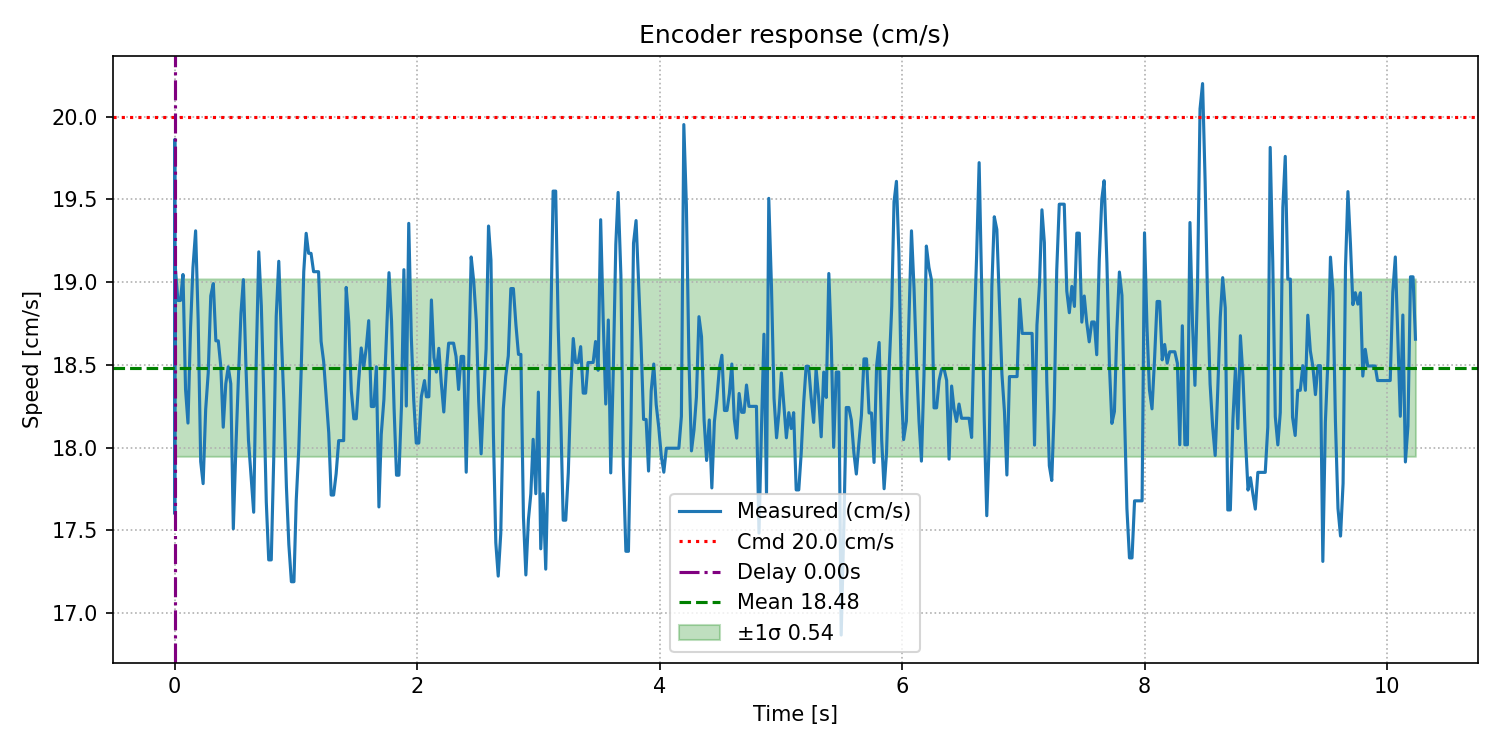
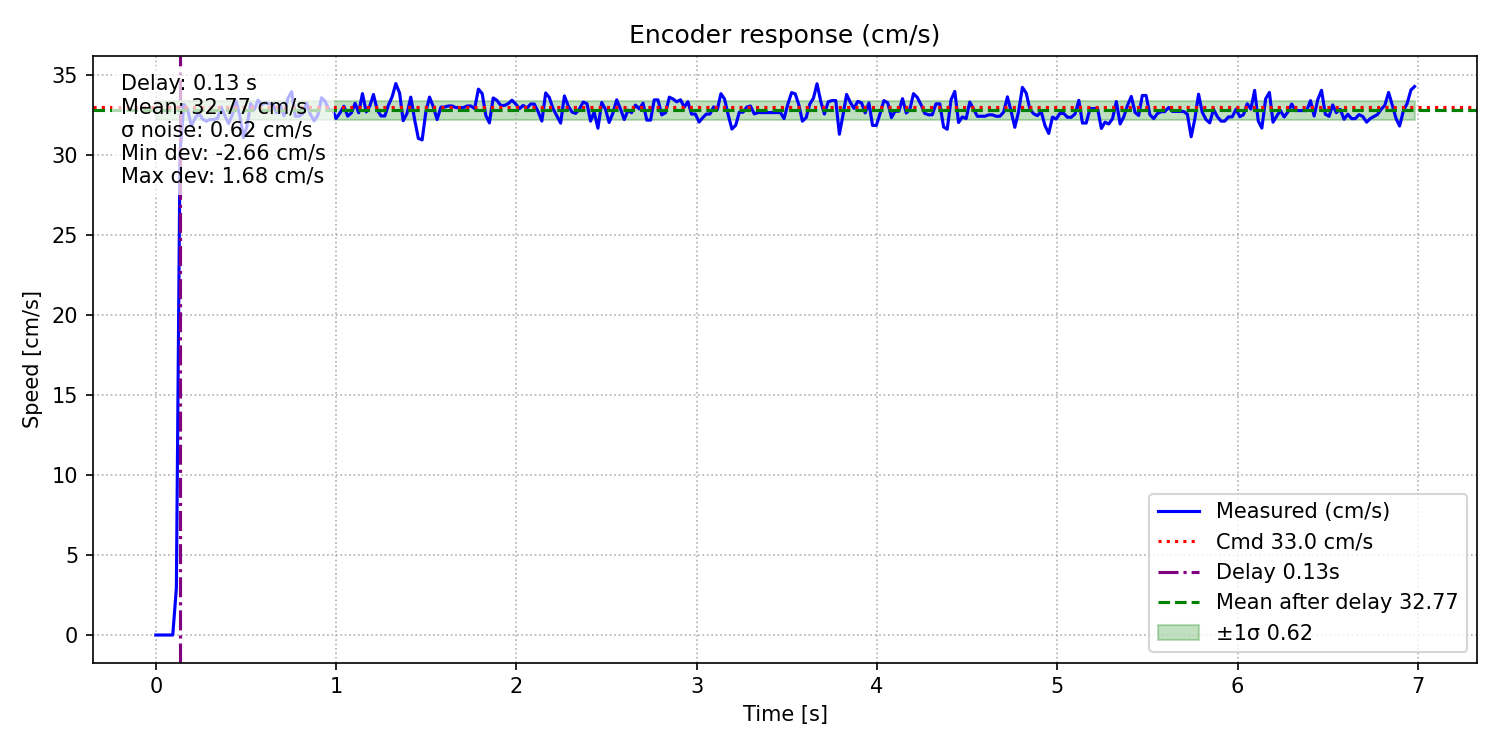
encoder totaldisplacement

diff --git a/Embedded_Platform/Embedded_2024/source/periodics/encoder.cpp b/Embedded_Platform/Embedded_2024/source/periodics/encoder.cpp
@@ -179,13 +179,8 @@ float CEncoder::readAngularSpeed() {
     sumDelta = 0.0f;
     lastT    = now;
     lastPublishedSpeed = speed;
-    // printf("[Encoder] angle = %.2f°, speed = %.2f°/s\n", ang, speed);
 
     char buf[64];
-    // int len = snprintf(buf, sizeof(buf),
-    //                 "[Encoder] angle = %.2f°, speed = %.2f°/s\n",
-    //                 ang, speed);
-    // m_serial.write(buf, len);
     int n = std::snprintf(buf, sizeof(buf),
                     "@5:%.1f;%.3f;;\r\n",
                     ang, speed / DEGREE_PER_CM);
@@ -193,9 +188,13 @@ float CEncoder::readAngularSpeed() {
         m_serial.write(buf, n);
     }
 
+    int len = snprintf(buf, sizeof(buf),
+                    "[Encoder] Total displacement = %.2f°\n",
+                    displacementDeg);
+    m_serial.write(buf, len);
+
     return speed;
 }
-
 
 float CEncoder::readAngularAcceleration() {
     float dt = m_dt;
@@ -212,25 +211,24 @@ float CEncoder::readAngularAcceleration() {
     return filtAcc;
 }
 
-float CEncoder::getTotalDisplacementDegrees() {
-    float current = readAngleDegrees();
-    static float prev = current;
-    static float total = 0.0f;
+float CEncoder::getTotalDisplacementDegrees()
+{
+    const float ang_raw = m_pwm.dutycycle() * 360.0f;
+    static int   revs = 0;
+    static float prev = ang_raw;
 
-    // Compute raw difference
-    float delta = current - prev;
+    float delta = ang_raw - prev;
 
-    // Correct for wrap-around
-    if (delta < -180.0f) {
-        delta += 360.0f;
-    } else if (delta > 180.0f) {
-        delta -= 360.0f;
-    }
+    if (delta >  180.0f) revs--;      // wrapped 360→0 forward
+    else if (delta < -180.0f) revs++; // wrapped 0→360 backward
 
-    total += delta;
-    prev = current;
-
-    printf("[Encoder] Total displacement = %.2f°\n", total);
+    prev = ang_raw;
+    float total = revs * 360.0f + ang_raw;
+    // char buf[64];
+    // int len = snprintf(buf, sizeof(buf),
+    //                 "[Encoder] Total displacement = %.2f°\n",
+    //                 total);
+    // m_serial.write(buf, len);
     return total;
 }
 
@@ -255,7 +253,7 @@ void CEncoder::_run() {
 
     // float angleDeg = readAngleDegrees();
     // float speedDeg = readAngularSpeed();
-    float displacementDeg = getTotalDisplacementDegrees(); 
+    displacementDeg = getTotalDisplacementDegrees(); 
 
     // // ————— 5) Mark end of execution and accumulate for average print
     // uint32_t end_us     = execTimer.read_us();

diff --git a/Embedded_Platform/Embedded_2024/scripts/encoder_noise_test.py b/Embedded_Platform/Embedded_2024/scripts/encoder_noise_test.py
@@ -14,7 +14,7 @@ import serial
 # ENC_PATTERN = re.compile(r"\[Encoder\]\s+angle\s*=\s*([-0-9.]+)°,\s*speed\s*=\s*([-0-9.]+)°/s")
 ENC_PATTERN = re.compile(r"@5:([-0-9.]+);([-0-9.]+);;")
 
-MOTOR_ID = 15
+MOTOR_ID = 11
 CM_TO_DEG = -146.0  # deg/s per cm/s (negative to fix sign)
 BAND_TOL = 0.15     # ±10 % tolerance band for delay detection
 HOLD_S   = 0.5      # must remain inside band for this long to count as settled
@@ -22,8 +22,7 @@ HOLD_S   = 0.5      # must remain inside band for this long to count as settled
 # ────────────────────────────────────────────────────────────────────────────────
 
 def build_cmd(speed_cm_s: float, angle_deg: float) -> bytes:
-    return f"#{MOTOR_ID}:{speed_cm_s:.2f};;\r\n".encode()
-
+    return f"#{MOTOR_ID}:{speed_cm_s:.4f}:{angle_deg:.2f};;\r\n".encode()
 
 # ────────────────────────────────────────────────────────────────────────────────
 
@@ -167,9 +166,9 @@ def save_plot(times: list[float], speeds: list[float], cmd_speed: float, delay: 
 
 def main() -> None:
     ap = argparse.ArgumentParser(description="Constant‑speed noise test with delay estimation (cm/s)")
-    ap.add_argument("--cmd", type=float, default=0.245, help="Commanded speed [cm/s]")
+    ap.add_argument("--cmd", type=float, default=33, help="Commanded speed [cm/s]")
     ap.add_argument("--steer", type=float, default=0, help="Steering angle [deg]")
-    ap.add_argument("--dur", type=float, default=30, help="Duration [s]")
+    ap.add_argument("--dur", type=float, default=7, help="Duration [s]")
     ap.add_argument("--csv", type=Path, help="Save raw data to CSV")
     ap.add_argument("--port", default="/dev/ttyACM0")
     ap.add_argument("--baud", type=int, default=115200)
@@ -193,7 +192,7 @@ def main() -> None:
         save_csv(times, speeds, args.csv)
 
     script_dir = Path(__file__).parent
-    save_plot(times, speeds, args.cmd, delay, stats, script_dir / "encoder_noise_plot.png")
+    save_plot(times, speeds, args.cmd, delay, stats, script_dir / "plots" / "encoder_noise_plot.png")
 
     # stop motor
     ser = serial.Serial(args.port, baudrate=args.baud, timeout=0.1)

diff --git a/Embedded_Platform/Embedded_2024/include/periodics/encoder.hpp b/Embedded_Platform/Embedded_2024/include/periodics/encoder.hpp
@@ -93,6 +93,7 @@ private:
     float  sumDelta{0.0f};             ///< sum of deltas for speed
     float  lastT{0.0f};                ///< last time for speed report
     float  lastPublishedSpeed{0.0f};   ///< last published speed
+    float displacementDeg{0.0f};         ///< total displacement in degrees
 };
 
 } // namespace periodics
